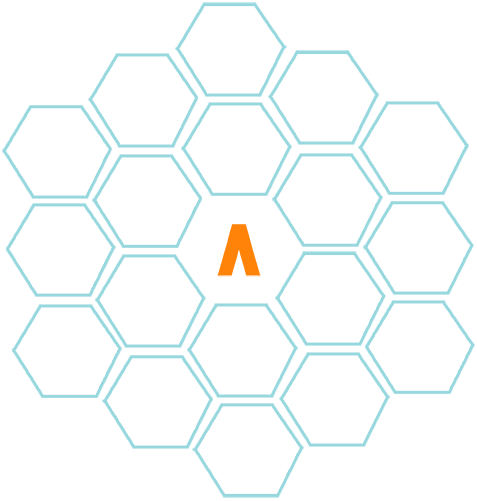
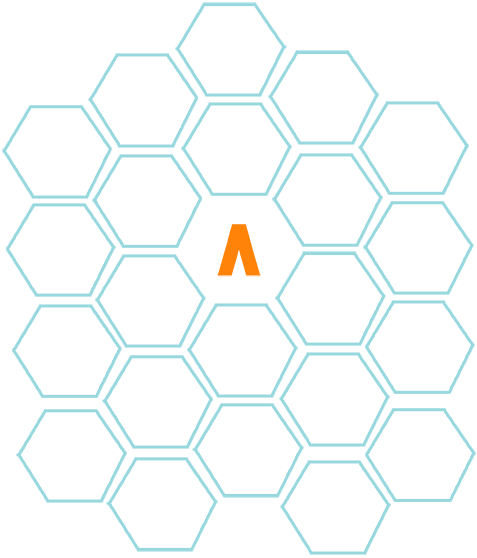
Plain report factor hexagon page updated

Changed region(s): [[0.0, 0.0299, 0.9979, 1.0], [0.5283, 0.0, 0.5577, 0.0299], [0.4109, 0.0, 0.4403, 0.0299]]

diff --git a/app/assets/stylesheets/reports.sass b/app/assets/stylesheets/reports.sass
@@ -150,23 +150,23 @@ body
         .instruction2
           background-position: 0px -39px
 
+    .bottom-sec
+      padding-left: 33px
+      font-size: 11px
+      background: image-url("report/home-bottom-hexagon.png") no-repeat 
+      line-height: 25px
+    [class*="factor_"]
+      position: absolute
+      width: 92px
+      text-align: center
+      font-weight: bold          
     .factors_container
       background: image-url("report/hexagon-bg.png") no-repeat center center
-      height: 500px
+      height: 557px
 
       .factors_list
         position: relative
-        height: 520px
-      .bottom-sec
-        padding-left: 33px
-        font-size: 11px
-        background: image-url("report/home-bottom-hexagon.png") no-repeat 
-        line-height: 25px
-      [class*="factor_"]
-        position: absolute
-        width: 92px
-        text-align: center
-        font-weight: bold          
+        height: 557px
       .factor_1
         left: 330px
         top: 25px-(15)
@@ -221,9 +221,19 @@ body
       .factor_18
         left: 245px
         top: 175px -(15)
+      .factor_19
+        left: 165px
+        top: 415px 
+      .factor_20
+        left: 255px
+        top: 465px
+      .factor_21
+        left: 430px
+        top: 467px
+      .factor_22
+        left: 515px
+        top: 415px
            
-          
-
   .scores
     padding: 18px 30px
     min-height: 900px
